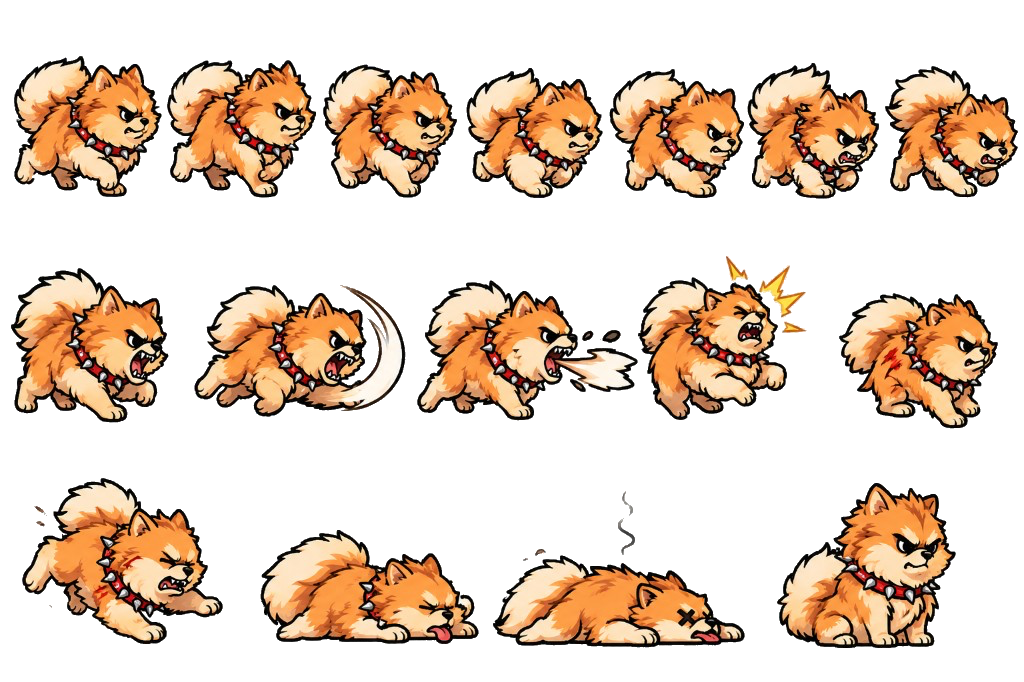
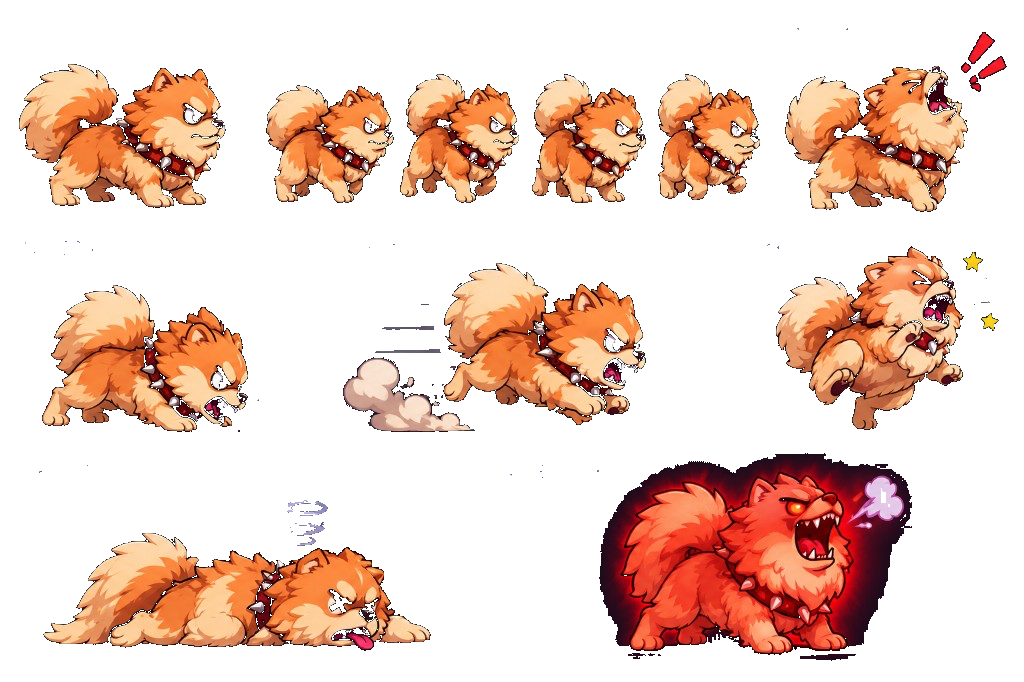
Cambia el Pomerania de Parque Croqueta por la hoja nueva de poses.

diff --git a/wp-content/themes/devconjorge/zombia/index.html b/wp-content/themes/devconjorge/zombia/index.html
@@ -337,7 +337,7 @@ const BOSS=[
  {k:'rana',n:'REY SAPO',hp:320,w:180,h:155,spd:0,spr:{id:'boss-sapo',bh:140,f:[[8,39,148,134],[172,34,157,137],[339,21,191,155],[560,3,253,174],[6,185,166,132],[172,204,173,113],[347,185,266,132],[616,203,202,114],[3,324,156,212],[159,324,162,212],[321,340,323,196],[644,374,173,162]]},atks:[
    {t:'hop',tele:.45,dmg:16},
    {t:'beam',style:'tongue',tele:.65,act:.6,len:480,y0:56,y1:80,ox:60,dmg:14}]},
- {k:'pome',n:'POMERANIA CROQUETERA',hp:400,w:150,h:136,spd:80,spr:{id:'boss-pome',bh:136,f:[[14,56,148,141],[167,60,149,138],[323,64,134,134],[466,68,137,130],[609,69,136,129],[747,63,132,136],[885,66,133,132],[11,268,158,155],[194,285,212,132],[417,280,218,141],[635,256,172,164],[839,293,159,136],[22,478,201,166],[260,530,219,114],[493,491,252,157],[777,483,179,165]]},atks:[
+ {k:'pome',n:'POMERANIA CROQUETERA',hp:400,w:150,h:136,spd:80,spr:{id:'boss-pome',bh:144,f:[[19,64,207,144,144],[266,84,128,120,117],[400,72,120,132,129],[532,72,114,132,129],[658,72,103,130,126],[784,28,224,184,128],[20,238,240,210,146],[340,238,310,220,156],[718,238,284,194,176],[20,458,414,196,144],[500,450,420,214,158]]},atks:[
    {t:'lob',style:'kibble',tele:.5,act:.9,n:5,dmg:12},
    {t:'charge',tele:.4,act:.5,v:600,dmg:12},
    {t:'beam',style:'lick',tele:.35,act:.4,len:130,y0:8,y1:105,ox:50,dmg:12}]},
@@ -733,13 +733,13 @@ function drawEnemy(e){const x=e.x-cam,y=e.y,bob=Math.sin(e.ph*8)*2;shadow(x,e.gy
   g.beginPath();g.moveTo(-6,-66+bob);g.lineTo(-10,-76+bob);g.stroke();circ(-10,-78+bob,4,Math.sin(e.ph*10)>0?'#ff4d6d':'#7a1f30');rr(-15,-60+bob,9,6,2,'#35f0ff');}
  g.restore();}
 function bossPose(b){const k=b.c.k,a=b.atk,on=b.st==='act'||b.st==='tele',step=Math.floor(time*8),far=Math.abs(P.x-b.x)>90;
- if(k==='pome'){if(b.st==='dead')return b.t>.7?13:14;if(b.flash>.05)return 11;if(on&&a){if(a.t==='lob')return on&&b.st==='act'?9:7;if(a.t==='charge')return 8;if(a.t==='beam')return 7;}return far?step%7:0;}
+ if(k==='pome'){const rage=b.hp<b.max*.45;if(b.st==='dead')return 9;if(b.flash>.05)return 8;if(on&&a){if(a.t==='charge')return b.st==='tele'?5:7;if(a.t==='lob'||a.t==='beam')return b.st==='tele'?5:6;}if(rage)return 10;return far?1+(step%4):0;}
  if(k==='rana'){if(b.st==='dead')return 11;if(b.flash>.05)return 8;if(on&&a){if(a.t==='hop')return b.y<GY-8?6:5;if(a.t==='beam')return b.st==='act'?7:4;}return far?1+step%2:0;}
  if(k==='zombot'){if(b.st==='dead')return b.t>.8?11:12;if(b.flash>.05)return 7;if(on&&a){if(a.t==='beam')return b.st==='act'?9:6;if(a.t==='charge')return 8;if(a.t==='slam')return b.st==='act'?10:6;}return far?step%5:15;}
  if(k==='ia'&&b.phase===2){if(b.st==='dead')return b.t>.5?18:19;if(b.flash>.05)return 10;if(on&&a){if(a.t==='beam')return b.st==='act'?9:4;if(a.t==='charge'||a.t==='slam')return b.st==='act'?8:5;if(a.t==='lob'||a.t==='rain')return 5;}return far?step%4:0;}
  if(k==='ia'){if(b.st==='dead')return 12;if(b.st==='morph')return 11;if(b.flash>.05)return 7;if(on&&a){if(a.t==='beam')return b.st==='act'?9:5;if(a.t==='charge'||a.t==='slam')return b.st==='act'?8:6;if(a.t==='lob'||a.t==='rain')return 5;}return far?step%4:0;}
  return 0;}
-function drawBossFrame(b,x){const S=b.phase===2&&b.c.spr2?b.c.spr2:b.c.spr;if(!S)return false;const im=IMG[S.id];if(!im||!im.complete)return false;const fr=S.f[bossPose(b)],sc=(b.h/S.bh)*(b.st==='morph'?b.sc:1);g.save();g.translate(x,b.y);g.scale(b.face*sc,sc);if(b.flash>0)g.globalAlpha*=.6;g.drawImage(im,fr[0],fr[1],fr[2],fr[3],-fr[2]/2,-fr[3],fr[2],fr[3]);g.restore();return true;}
+function drawBossFrame(b,x){const S=b.phase===2&&b.c.spr2?b.c.spr2:b.c.spr;if(!S)return false;const im=IMG[S.id];if(!im||!im.complete)return false;const fr=S.f[bossPose(b)],sc=(b.h/(fr[4]||S.bh))*(b.st==='morph'?b.sc:1);g.save();g.translate(x,b.y);g.scale(b.face*sc,sc);if(b.flash>0)g.globalAlpha*=.6;g.drawImage(im,fr[0],fr[1],fr[2],fr[3],-fr[2]/2,-fr[3],fr[2],fr[3]);g.restore();return true;}
 function drawBoss(){const b=L.boss;if(!b||b.st==='sleep'&&L.bossDead)return;const x=b.x-cam,k=b.c.k,tele=b.st==='tele',act=b.st==='act',a=b.atk,br=Math.sin(time*3)*3;
  if(b.st==='dead'){if(b.t<=0)return;g.globalAlpha=clamp(b.t/1.6,0,1);}
  shadow(x,GY-14,b.w*.55);

diff --git a/wp-content/themes/devconjorge/functions.php b/wp-content/themes/devconjorge/functions.php
@@ -7,7 +7,7 @@
 
 defined( 'ABSPATH' ) || exit;
 
-define( 'DCJ_VERSION', '1.37.0' );
+define( 'DCJ_VERSION', '1.38.0' );
 define( 'DCJ_DIR', get_template_directory() );
 define( 'DCJ_URI', get_template_directory_uri() );
 
